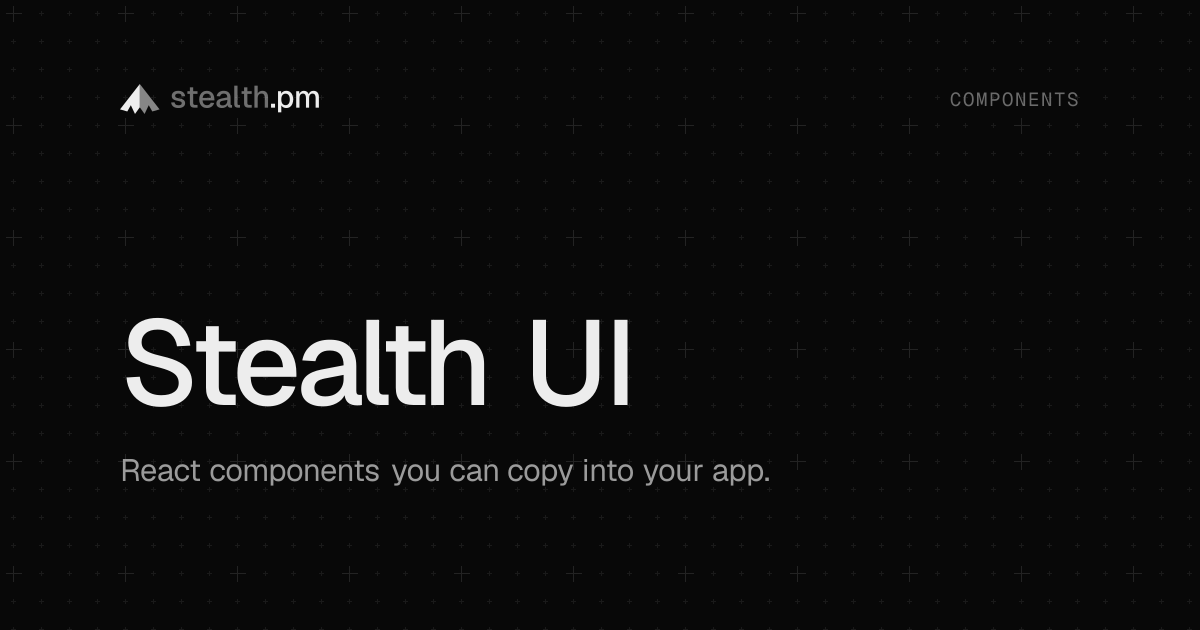
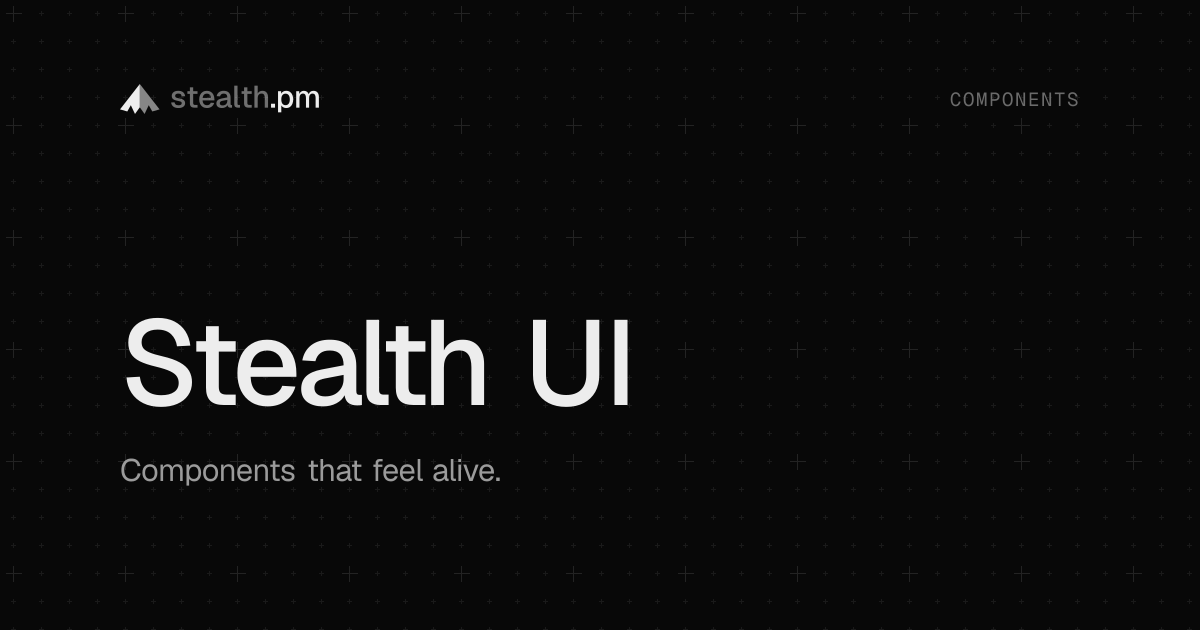
Lead with 'Components that feel alive'

Changed region(s): [[0.0925, 0.7238, 0.6475, 0.7841]]

diff --git a/app/layout.tsx b/app/layout.tsx
@@ -5,7 +5,7 @@ import "./globals.css";
 
 export const metadata: Metadata = {
   title: "Stealth UI",
-  description: "Finished React components for product interfaces.",
+  description: "Components that feel alive.",
 };
 
 // Read the saved theme before paint so there is no flash.

diff --git a/README.md b/README.md
@@ -1,10 +1,10 @@
-<a href="https://www.stealth.pm/ui"><img src=".github/og.png" alt="Stealth UI — finished React components for product interfaces" width="100%" /></a>
+<a href="https://www.stealth.pm/ui"><img src=".github/og.png" alt="Stealth UI — components that feel alive" width="100%" /></a>
 
 # Stealth UI
 
-321 React components for product interfaces, each one finished: every state, the keyboard, the screen reader, touch, both themes, reduced motion, and the small motion that tells you something happened.
+**Components that feel alive.** Stealth UI is a micro-interaction-rich component library: rich motion on every interaction, built production-ready with full keyboard, screen reader, and reduced-motion support.
 
-Not a package. You copy the source into your project and it becomes yours. Start a new app with all of it, add one component to an app you have, or copy a file by hand.
+321 components, and not a package: you copy the source into your project and it becomes yours. Start a new app with all of it, add one component to an app you have, or copy a file by hand.
 
 ```bash
 npx create-next-app@latest my-app -e https://github.com/paragonhq/stealth-ui
